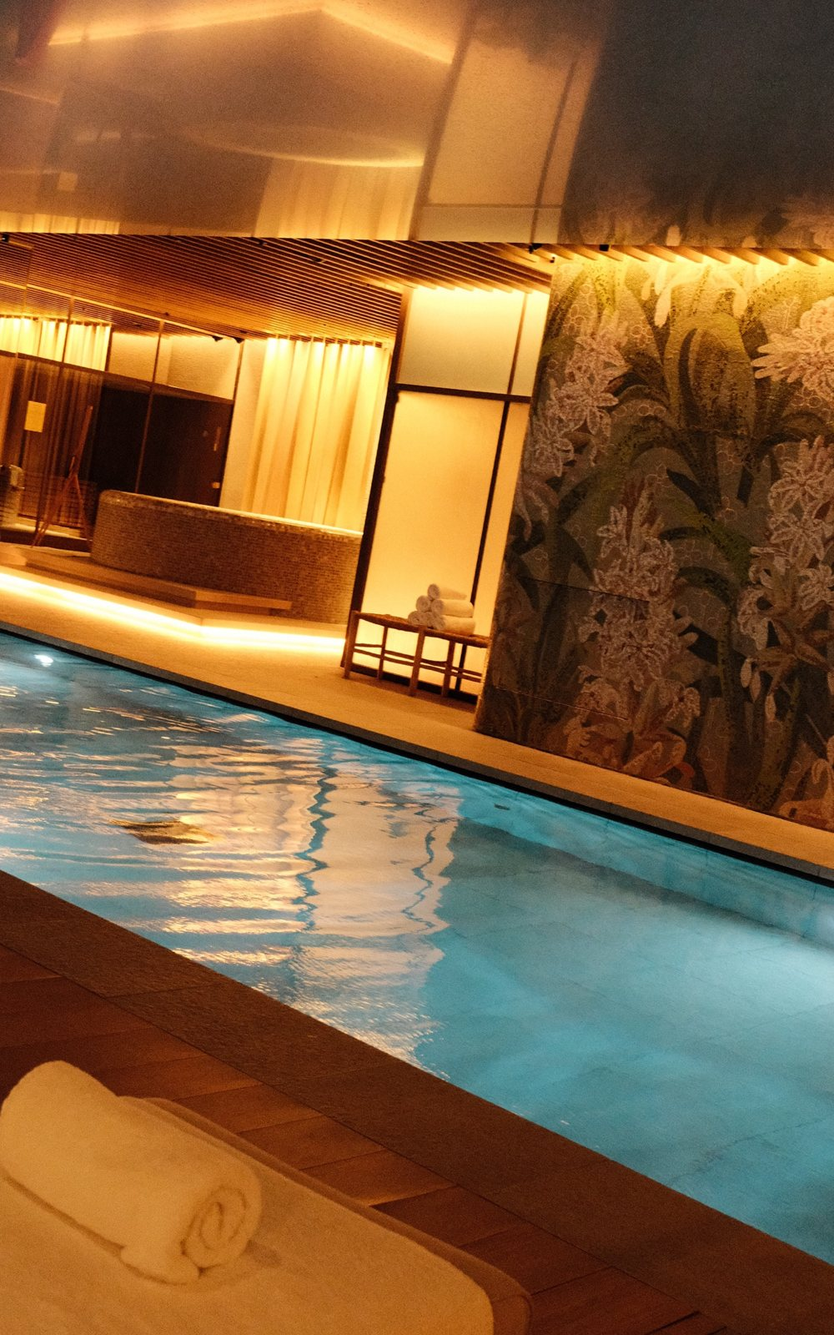
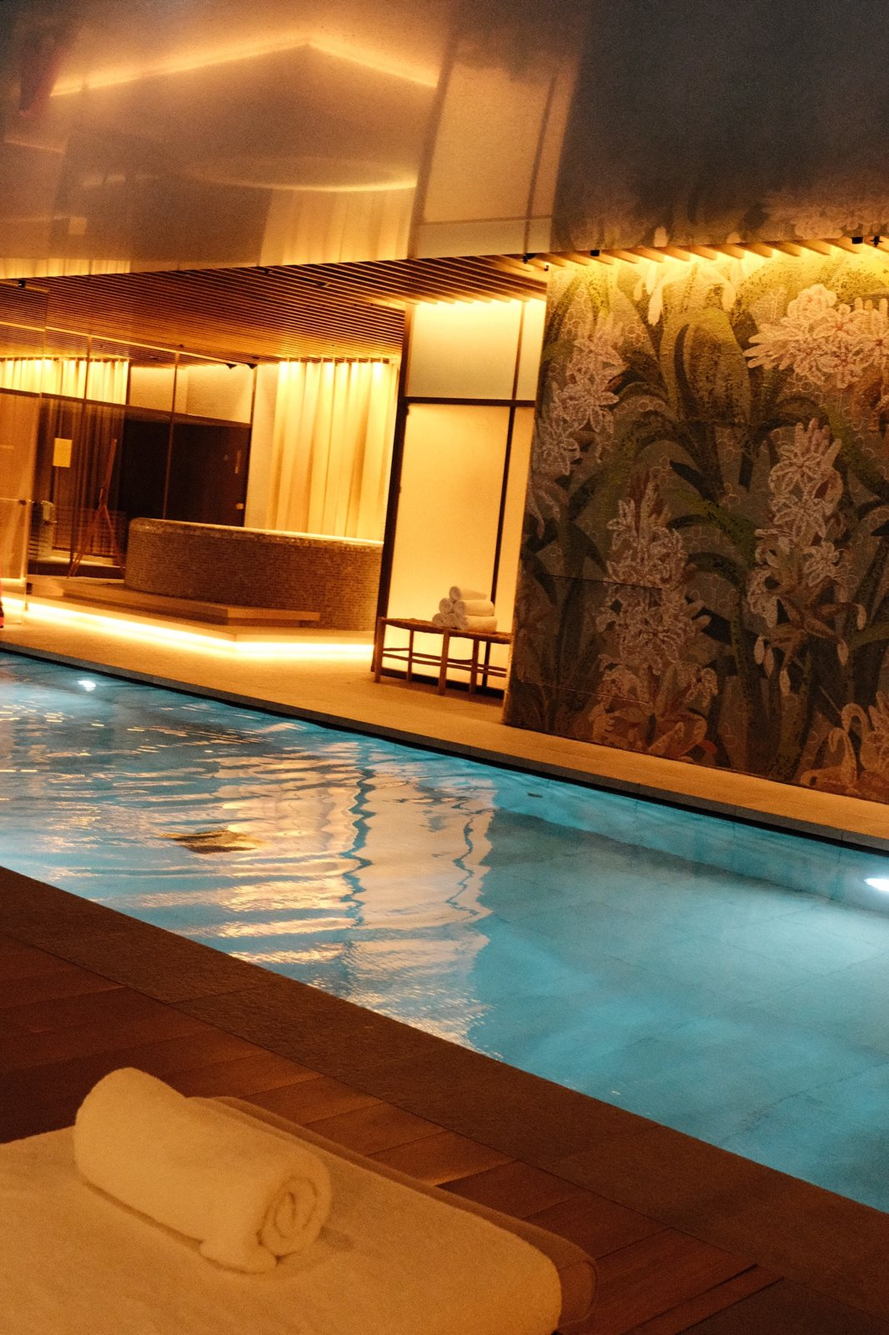
45 Park Lane: restore the spa pool photo as shot (#204)
* London guide: first four hotels from the November site visits

The Cadogan, Rosewood London, Broadwick Soho and The Peninsula London,
with pick-by-trip, Keith's notes, and links to the existing Claridge's,
Connaught, Lanesborough and Raffles OWO reviews.

Claude-Session: https://claude.ai/code/session_01SGtJMUPdUyx2if6hCKMgjq

* London guide: add 45 Park Lane with Keith's suite photos

Claude-Session: https://claude.ai/code/session_01SGtJMUPdUyx2if6hCKMgjq

* London guide: 45 Park Lane gets all eight photos and the 8am/8pm perk

Claude-Session: https://claude.ai/code/session_01SGtJMUPdUyx2if6hCKMgjq

* London guide: add The Emory and The Berkeley from the site visit

Claude-Session: https://claude.ai/code/session_01SGtJMUPdUyx2if6hCKMgjq

* London guide: Keith's photos of The Berkeley

Claude-Session: https://claude.ai/code/session_01SGtJMUPdUyx2if6hCKMgjq

* London guide: Keith's Emory photos, New Year's Eve, Fora Reserve on Emory and Berkeley

Claude-Session: https://claude.ai/code/session_01SGtJMUPdUyx2if6hCKMgjq

* London guide: The Berkeley has 190 rooms and suites

Claude-Session: https://claude.ai/code/session_01SGtJMUPdUyx2if6hCKMgjq

* London guide: Berkeley photos identified as the first-floor balcony and terrace room and the Bar & Terrace

Claude-Session: https://claude.ai/code/session_01SGtJMUPdUyx2if6hCKMgjq

* London guide: Emory marble photo is the lobby lounge

Claude-Session: https://claude.ai/code/session_01SGtJMUPdUyx2if6hCKMgjq
[…]

diff --git a/hotels/45-park-lane-london.html b/hotels/45-park-lane-london.html
@@ -3,4 +3,4 @@
   function gtag(){dataLayer.push(arguments);}
   gtag('js', new Date());
   gtag('config', 'G-0J39101CS2');
-</script><script type="application/ld+json">{"@context":"https://schema.org","@type":"Review","name":"45 Park Lane Review, London: My Stay at the Dorchester Collection (2026)","itemReviewed":{"@type":"Hotel","name":"45 Park Lane","address":{"@type":"PostalAddress","addressLocality":"London","addressCountry":"GB"},"image":"https://suiteswithkeith.com/images/hotels/45-park-lane/exterior-night.jpg"},"author":{"@type":"Person","name":"Keith Pence","url":"https://suiteswithkeith.com/about.html"},"publisher":{"@type":"Organization","name":"Suites With Keith","url":"https://suiteswithkeith.com/"},"datePublished":"2026-11-25","reviewBody":"Dorchester-quality beds and service in a moody, intimate hotel, with 8am check-in and 8pm check-out guaranteed through me.","url":"https://suiteswithkeith.com/hotels/45-park-lane-london.html"}</script><link rel="stylesheet" href="/assets/athens-excursions.BH3h5UD9.css"></head> <body> <nav class="nav" id="nav"> <div class="container"> <a class="wordmark" href="/index.html">Suites With Keith</a> <button class="nav-toggle" id="nav-toggle" aria-expanded="false" aria-controls="nav-links">Menu</button> <div class="nav-links" id="nav-links"> <a href="/services.html">Services</a> <a href="/collections.html" data-gtag-label="collections" data-gtag-location="nav">The Collections</a> <a href="/destination-guides.html" data-gtag-label="destination_guides" data-gtag-location="nav">Destination Guides</a> <a href="/rankings.html" data-gtag-label="keiths_rankings" data-gtag-location="nav">Keith's Rankings</a> <a href="/about.html">About</a> </div> </div> </nav> <header class="hero" style="min-height:min(72svh,680px);">  <img class="hero-img" src="/images/hotels/45-park-lane/exterior-night.jpg" alt="45 Park Lane, London" style="object-position:50% 30%" fetchpriority="high"> <div class="container"> <p class="eyebrow">Hotel review &middot; Stayed November 2026 &middot; London, England</p> <h1 class="display-xl">45 Park Lane <em style="color:inherit">review</em></h1> <p class="stamp" style="margin-top:20px;">8am Check-In, Guaranteed Through Me · 8pm Check-Out, Guaranteed Through Me</p> </div> </header>  <section class="section"> <div class="container"> <div class="verdict reveal"> <p>Dorchester-quality beds and service in a moody, intimate hotel, with 8am check-in and 8pm check-out guaranteed through me.</p> </div> <dl class="kv reveal" style="margin-top:48px;"> <div class="kv-row"><dt>Neighborhood</dt><dd>Park Lane, Mayfair, London</dd></div> <div class="kv-row"><dt>Style</dt><dd>Moody, intimate townhouse (Dorchester Collection)</dd></div> <div class="kv-row"><dt>Perfect for</dt><dd>Couples, design lovers, repeat guests who want to be remembered, travelers who want Dorchester service at a smaller scale</dd></div> <div class="kv-row"><dt>My ranking</dt><dd><a href="/london.html" style="color:var(--brass);">On my London guide</a></dd></div> </dl> </div> </section>  <section class="section"> <div class="container"> <div class="sec-head reveal"> <span class="eyebrow">The review</span> <h2 class="display-l" style="max-width:24ch;">Moody, sexy and small, with Dorchester-quality beds and service and stunning marble bathrooms.</h2> </div> <div class="reveal" style="max-width:62ch;"> <p style="margin-bottom:16px;">Moody, sexy and small, with Dorchester-quality beds and service. The suites are all velvet sofas, soft textured walls and brass, and the marble bathrooms are stunning, with heated floors and Toto toilets.</p><p style="margin-bottom:16px;">It&rsquo;s the kind of hotel where the small things are already handled before you think to ask. There was oat milk and regular milk already in the fridge, so I could have my coffee first thing in the morning without calling down. A small touch, but an incredible one.</p><p style="margin-bottom:16px;">And because it&rsquo;s so small, the personal attention is incredible, almost like <a href="/hotels/portrait-firenze.html">Portrait</a> in Florence and Milan. This is a hotel for someone who likes to come back and know the hotel will remember every little thing about them. That&rsquo;s a great part of this property.</p><p style="margin-bottom:16px;">The one con: from my seventh-floor suite, there wasn&rsquo;t much of a view. Come for the rooms, the beds and the mood.</p> </div> <div class="photos reveal" style="margin-top:44px;">  <figure><img src="/images/hotels/45-park-lane/suite-living-room.jpg" alt="45 Park Lane, London" width="1600" height="1067" loading="lazy" decoding="async"></figure> <figure><img src="/images/hotels/45-park-lane/marble-bathroom.jpg" alt="The marble bathroom with a lit double vanity at 45 Park Lane" width="1600" height="1066" loading="lazy" decoding="async"><figcaption>Stunning marble bathrooms</figcaption></figure><figure><img src="/images/hotels/45-park-lane/bedroom.jpg" alt="The bedroom of a 45 Park Lane suite with a black-and-white portrait above the bed" width="1600" height="1066" loading="lazy" decoding="async"><figcaption>Dorchester-quality beds</figcaption></figure><figure><img src="/images/hotels/45-park-lane/suite-dining.jpg" alt="The dining table under a brass chandelier in a 45 Park Lane suite" width="1600" height="1066" loading="lazy" decoding="async"><figcaption>Dining in the suite</figcaption></figure><figure><img src="/images/hotels/45-park-lane/suite-night.jpg" alt="The living room of a 45 Park Lane suite at night, with the city lit up beyond the windows" width="1600" height="1066" loading="lazy" decoding="async"><figcaption>The suite after dark</figcaption></figure><figure><img src="/images/hotels/45-park-lane/suite-sofas.jpg" alt="Velvet sofas by the windows in a 45 Park Lane suite" width="1066" height="1600" loading="lazy" decoding="async"><figcaption>Velvet and brass</figcaption></figure><figure><img src="/images/hotels/45-park-lane/champagne-corner.jpg" alt="Champagne on ice beside a velvet armchair in a 45 Park Lane suite" width="1066" height="1600" loading="lazy" decoding="async"><figcaption>The welcome</figcaption></figure><figure><img src="/images/hotels/45-park-lane/bed-portrait.jpg" alt="The bed in a 45 Park Lane suite in low lamplight" width="1066" height="1600" loading="lazy" decoding="async"><figcaption>Moody, in the best way</figcaption></figure><figure><img src="/images/hotels/45-park-lane/spa-pool.jpg" alt="The indoor pool beside a floral mosaic wall in the spa shared by 45 Park Lane and The Dorchester" width="1000" height="1600" loading="lazy" decoding="async"><figcaption>The spa pool</figcaption></figure><figure><img src="/images/hotels/45-park-lane/spa-lounge.jpg" alt="The spa relaxation lounge with a hanging swing seat at 45 Park Lane" width="1066" height="1600" loading="lazy" decoding="async"><figcaption>The spa lounge</figcaption></figure><figure><img src="/images/hotels/45-park-lane/spa-fireside.jpg" alt="A curved fireside lounge in the spa at 45 Park Lane" width="1066" height="1600" loading="lazy" decoding="async"><figcaption>Fireside in the spa</figcaption></figure> </div> </div> </section>  <section class="section"> <div class="container"> <div class="sec-head reveal"> <span class="eyebrow">What stood out</span> <h2 class="display-l">The details that made the list</h2> </div> <dl class="kv reveal"> <div class="kv-row"><dt>01</dt><dd><b>8am check-in, 8pm check-out, guaranteed.</b> <span class="body-2">When you book through me. Land on the overnight flight and go straight to bed, or take the evening flight home without losing the day.</span></dd></div><div class="kv-row"><dt>02</dt><dd><b>The marble bathrooms.</b> <span class="body-2">Stunning, with heated floors and Toto toilets.</span></dd></div><div class="kv-row"><dt>03</dt><dd><b>The spa and gym.</b> <span class="body-2">The spa is a major selling point: a pool beside a floral mosaic wall, a hot tub and calm, warm lounges. The gym is super expansive, one of the nicer city-hotel gyms I&rsquo;ve seen. Guests of The Dorchester next door use the same spa.</span></dd></div><div class="kv-row"><dt>04</dt><dd><b>Personal attention, remembered.</b> <span class="body-2">A hotel this size gives incredible personal attention, almost like <a href="/hotels/portrait-firenze.html">Portrait</a> in Florence and Milan. It&rsquo;s a hotel for someone who likes to come back and know it will remember every little thing about them.</span></dd></div><div class="kv-row"><dt>05</dt><dd><b>Dorchester-quality beds and service.</b> <span class="body-2">At a much smaller scale than The Dorchester itself.</span></dd></div><div class="kv-row"><dt>06</dt><dd><b>The little things.</b> <span class="body-2">Oat milk and regular milk already in the fridge. Coffee first thing, without calling down.</span></dd></div> </dl> </div> </section>  <section class="section"> <div class="container"> <div class="sec-head reveal"> <span class="eyebrow">Know before you book</span> <h2 class="display-l">The Fine Print, From Your Advisor</h2> </div> <dl class="kv reveal"> <div class="kv-row"><dt>01</dt><dd><b>Don&rsquo;t book it for the view.</b> <span class="body-2">From my seventh-floor suite there wasn&rsquo;t much to see.</span></dd></div><div class="kv-row"><dt>02</dt><dd><b>Book a suite.</b> <span class="body-2">For the bathroom alone.</span></dd></div><div class="kv-row"><dt>03</dt><dd><b>Compare the rest of London.</b> <span class="body-2">My <a href="/london.html">London guide</a> puts every hotel I&rsquo;ve seen side by side.</span></dd></div> </dl> </div> </section>  <section class="section band on-shadow"> <div class="container" style="max-width:820px; text-align:center;"> <img src="/images/personal/keith-headshot-square.jpg" alt="Keith Pence" width="320" height="320" loading="lazy" decoding="async" class="reveal" style="display:block;width:88px;height:88px;border-radius:50%;object-fit:cover;object-position:50% 30%;margin:0 auto 20px;"><span class="eyebrow reveal" style="display:block; margin-bottom:16px;">Book 45 Park Lane through me</span> <h2 class="display-l reveal">Fora perks.<br>And someone who knows the hotel.</h2> <p class="body-2 reveal" style="margin:22px auto 0; max-width:52ch;">Work with me and you get two things: perks you can&rsquo;t get booking direct, and someone who has stayed here. Book 45 Park Lane through me and an 8am check-in and 8pm check-out are guaranteed. I know the suites and the team, and I&rsquo;m your direct line to them while you&rsquo;re there. Rates are identical to booking direct.</p> <figure class="swk-quote reveal" style="margin:36px auto 0; max-width:52ch; padding-top:26px; border-top:1px solid var(--band-hairline);"><blockquote style="margin:0; font-family:var(--body); font-style:italic; font-size:clamp(1.1rem,2.2vw,1.3rem); line-height:1.5;">&ldquo;Luxury hotels naturally have many guests competing for attention, but having Keith in our corner made us feel like a priority throughout the entire experience.&rdquo;</blockquote><figcaption style="margin-top:12px; font-size:13px; font-weight:400; letter-spacing:.2em; text-transform:uppercase; color:var(--band-ash); font-family: 'Instrument Serif', Didot, Georgia, serif;">Tyler &amp; Spencer C. &middot; SWK Clients</figcaption></figure> </div> </section>  <section class="section inquire" id="inquire"> <div class="container"> <h2 class="display-l reveal">When are you thinking?</h2> <p class="deck reveal" style="margin:18px auto 0; max-width:44ch;">Book through me and your room is ready at 8am and yours until 8pm. Tell me your dates and flights.</p> <form class="inquire-form reveal" action="https://formspree.io/f/mjgnadov" method="POST"> <input type="hidden" name="_subject" value="45 Park Lane Inquiry"> <input type="hidden" name="hotel" value="45 Park Lane, London"> <input type="hidden" name="page" value="hotels/45-park-lane-london"> <input type="text" name="_gotcha" style="display:none" tabindex="-1" autocomplete="off"> <div class="step1"> <label for="q-when">When are you thinking?</label> <input id="q-when" type="text" name="travel_dates" placeholder="Late June, 5 nights" required autocomplete="off"> </div> <div class="step2"> <label for="q-name">And where do I send the recommendation?</label> <input id="q-name" type="text" name="name" placeholder="Name" required autocomplete="name"> <input id="q-email" type="email" name="email" placeholder="Email" required autocomplete="email"> <label for="q-details" style="margin-top:2px;">Anything else? Nights, budget, occasion (optional)</label> <input id="q-details" type="text" name="details" placeholder="7 nights · around $1,500/night · anniversary" autocomplete="off"> </div> <button type="submit" class="btn" data-gtag-label="hotel_inquiry_send" data-gtag-location="hotel_cta">Send</button> <p class="note">Traveling within the next 30 days? You&rsquo;ll hear from me today.</p> <p class="status" role="status" aria-live="polite"></p> </form> <p class="reveal" style="margin-top:34px;"> <a href="/london.html" style="font-size:13px; font-weight:400; letter-spacing:.2em; text-transform:uppercase; color:var(--brass); text-decoration:none; margin-right:22px; display:inline-block; margin-bottom:8px; font-family: 'Instrument Serif', Didot, Georgia, serif;">My London Guide&nbsp;&rarr;</a> <a href="/rankings.html" style="font-size:13px; font-weight:400; letter-spacing:.2em; text-transform:uppercase; color:var(--brass); text-decoration:none; display:inline-block; margin-bottom:8px; font-family: 'Instrument Serif', Didot, Georgia, serif;">All My Rankings&nbsp;&rarr;</a> </p> </div> </section>  <footer class="site"> <div class="container foot-grid"> <div> <a class="wordmark" href="/index.html">Suites With Keith</a> <p style="margin-top:14px;" class="read">Better rooms. Better trips. Hotel recommendations from someone who has stood in the rooms. Booking is complimentary, and the judgment comes with it.</p><p class="fora-cred" style="display:flex;align-items:center;gap:10px;margin-top:22px;font-family:'Instrument Serif', Didot, Georgia, serif;font-size:13px;font-weight:400;letter-spacing:.2em;text-transform:uppercase;color:var(--ash);">A <span role="img" aria-label="Fora X" style="display:inline-block;width:66px;height:15px;color:var(--ink);background:currentColor;-webkit-mask:url(/images/logos/partners/fora-x.svg) center/contain no-repeat;mask:url(/images/logos/partners/fora-x.svg) center/contain no-repeat;"></span> advisor</p> </div> <div> <p class="col-h">Get in touch</p> <div class="links"> <a href="mailto:keith.pence@fora.travel">keith.pence@fora.travel</a> <a href="https://instagram.com/suiteswithkeith" rel="noopener">@suiteswithkeith</a> </div> </div> <div> <p class="col-h">Explore</p> <div class="links"> <a href="/collections.html">The Collections</a> <a href="/destination-guides.html">Destination Guides</a> <a href="/rankings.html">Keith&rsquo;s Rankings</a> <a href="/privacy.html">Privacy Policy</a> </div> </div> </div> <div class="container" style="margin-top:56px; padding-top:36px; border-top:1px solid var(--hairline);"> <p class="col-h">Get first access to future issues</p> <div class="beehiiv-wrap" id="subscribe"> <script async src="https://subscribe-forms.beehiiv.com/v3/loader.js" data-beehiiv-form="f7386044-3940-49ca-ab13-051728385b6d"></script> <p style="margin-top:10px;"><a href="/subscriber-welcome.html" style="font-size:.85rem;">Just subscribed? Continue to your welcome page &rarr;</a></p> </div> </div> </footer> <a href="#inquire" class="btn sticky-cta" data-gtag-label="start_planning" data-gtag-location="sticky_mobile">Book 45 Park Lane</a> <script type="module">const a=document.getElementById("nav-toggle"),l=document.getElementById("nav");a?.addEventListener("click",()=>{const e=l.classList.toggle("open");a.setAttribute("aria-expanded",String(e))});const i=new IntersectionObserver(e=>{e.forEach(n=>{n.isIntersecting&&(n.target.classList.add("on"),i.unobserve(n.target))})},{threshold:.15});document.querySelectorAll(".reveal").forEach((e,n)=>{e.style.transitionDelay=Math.min(n%5,4)*90+"ms",i.observe(e)});const t=document.querySelector(".inquire-form");if(t){const e=t.querySelector(".step2"),n=t.querySelector('input[name="travel_dates"]'),r=t.querySelector(".status"),s=t.querySelector('button[type="submit"]'),o=()=>{e&&e.hidden&&(e.hidden=!1)};e&&n&&(e.hidden=!0,n.addEventListener("focus",o),n.addEventListener("input",o),t.addEventListener("invalid",o,!0)),t.addEventListener("submit",d=>{d.preventDefault(),s.disabled=!0,r.textContent="",fetch(t.action,{method:"POST",body:new FormData(t),headers:{Accept:"application/json"}}).then(c=>{if(!c.ok)throw new Error;t.reset(),t.classList.add("done"),r.textContent="Got it. You’ll hear back from me personally."}).catch(()=>{r.textContent="That didn’t send. Email me directly at keith.pence@fora.travel."}).then(()=>{s.disabled=!1})})}</script> <script defer src="/js/swk-events.js"></script> <script defer src="/js/swk-sticky.js"></script> <script defer src="/js/swk-book.js"></script> <script defer src="/js/swk-newsletter-prompt.js"></script> </body> </html>
+</script><script type="application/ld+json">{"@context":"https://schema.org","@type":"Review","name":"45 Park Lane Review, London: My Stay at the Dorchester Collection (2026)","itemReviewed":{"@type":"Hotel","name":"45 Park Lane","address":{"@type":"PostalAddress","addressLocality":"London","addressCountry":"GB"},"image":"https://suiteswithkeith.com/images/hotels/45-park-lane/exterior-night.jpg"},"author":{"@type":"Person","name":"Keith Pence","url":"https://suiteswithkeith.com/about.html"},"publisher":{"@type":"Organization","name":"Suites With Keith","url":"https://suiteswithkeith.com/"},"datePublished":"2026-11-25","reviewBody":"Dorchester-quality beds and service in a moody, intimate hotel, with 8am check-in and 8pm check-out guaranteed through me.","url":"https://suiteswithkeith.com/hotels/45-park-lane-london.html"}</script><link rel="stylesheet" href="/assets/athens-excursions.BH3h5UD9.css"></head> <body> <nav class="nav" id="nav"> <div class="container"> <a class="wordmark" href="/index.html">Suites With Keith</a> <button class="nav-toggle" id="nav-toggle" aria-expanded="false" aria-controls="nav-links">Menu</button> <div class="nav-links" id="nav-links"> <a href="/services.html">Services</a> <a href="/collections.html" data-gtag-label="collections" data-gtag-location="nav">The Collections</a> <a href="/destination-guides.html" data-gtag-label="destination_guides" data-gtag-location="nav">Destination Guides</a> <a href="/rankings.html" data-gtag-label="keiths_rankings" data-gtag-location="nav">Keith's Rankings</a> <a href="/about.html">About</a> </div> </div> </nav> <header class="hero" style="min-height:min(72svh,680px);">  <img class="hero-img" src="/images/hotels/45-park-lane/exterior-night.jpg" alt="45 Park Lane, London" style="object-position:50% 30%" fetchpriority="high"> <div class="container"> <p class="eyebrow">Hotel review &middot; Stayed November 2026 &middot; London, England</p> <h1 class="display-xl">45 Park Lane <em style="color:inherit">review</em></h1> <p class="stamp" style="margin-top:20px;">8am Check-In, Guaranteed Through Me · 8pm Check-Out, Guaranteed Through Me</p> </div> </header>  <section class="section"> <div class="container"> <div class="verdict reveal"> <p>Dorchester-quality beds and service in a moody, intimate hotel, with 8am check-in and 8pm check-out guaranteed through me.</p> </div> <dl class="kv reveal" style="margin-top:48px;"> <div class="kv-row"><dt>Neighborhood</dt><dd>Park Lane, Mayfair, London</dd></div> <div class="kv-row"><dt>Style</dt><dd>Moody, intimate townhouse (Dorchester Collection)</dd></div> <div class="kv-row"><dt>Perfect for</dt><dd>Couples, design lovers, repeat guests who want to be remembered, travelers who want Dorchester service at a smaller scale</dd></div> <div class="kv-row"><dt>My ranking</dt><dd><a href="/london.html" style="color:var(--brass);">On my London guide</a></dd></div> </dl> </div> </section>  <section class="section"> <div class="container"> <div class="sec-head reveal"> <span class="eyebrow">The review</span> <h2 class="display-l" style="max-width:24ch;">Moody, sexy and small, with Dorchester-quality beds and service and stunning marble bathrooms.</h2> </div> <div class="reveal" style="max-width:62ch;"> <p style="margin-bottom:16px;">Moody, sexy and small, with Dorchester-quality beds and service. The suites are all velvet sofas, soft textured walls and brass, and the marble bathrooms are stunning, with heated floors and Toto toilets.</p><p style="margin-bottom:16px;">It&rsquo;s the kind of hotel where the small things are already handled before you think to ask. There was oat milk and regular milk already in the fridge, so I could have my coffee first thing in the morning without calling down. A small touch, but an incredible one.</p><p style="margin-bottom:16px;">And because it&rsquo;s so small, the personal attention is incredible, almost like <a href="/hotels/portrait-firenze.html">Portrait</a> in Florence and Milan. This is a hotel for someone who likes to come back and know the hotel will remember every little thing about them. That&rsquo;s a great part of this property.</p><p style="margin-bottom:16px;">The one con: from my seventh-floor suite, there wasn&rsquo;t much of a view. Come for the rooms, the beds and the mood.</p> </div> <div class="photos reveal" style="margin-top:44px;">  <figure><img src="/images/hotels/45-park-lane/suite-living-room.jpg" alt="45 Park Lane, London" width="1600" height="1067" loading="lazy" decoding="async"></figure> <figure><img src="/images/hotels/45-park-lane/marble-bathroom.jpg" alt="The marble bathroom with a lit double vanity at 45 Park Lane" width="1600" height="1066" loading="lazy" decoding="async"><figcaption>Stunning marble bathrooms</figcaption></figure><figure><img src="/images/hotels/45-park-lane/bedroom.jpg" alt="The bedroom of a 45 Park Lane suite with a black-and-white portrait above the bed" width="1600" height="1066" loading="lazy" decoding="async"><figcaption>Dorchester-quality beds</figcaption></figure><figure><img src="/images/hotels/45-park-lane/suite-dining.jpg" alt="The dining table under a brass chandelier in a 45 Park Lane suite" width="1600" height="1066" loading="lazy" decoding="async"><figcaption>Dining in the suite</figcaption></figure><figure><img src="/images/hotels/45-park-lane/suite-night.jpg" alt="The living room of a 45 Park Lane suite at night, with the city lit up beyond the windows" width="1600" height="1066" loading="lazy" decoding="async"><figcaption>The suite after dark</figcaption></figure><figure><img src="/images/hotels/45-park-lane/suite-sofas.jpg" alt="Velvet sofas by the windows in a 45 Park Lane suite" width="1066" height="1600" loading="lazy" decoding="async"><figcaption>Velvet and brass</figcaption></figure><figure><img src="/images/hotels/45-park-lane/champagne-corner.jpg" alt="Champagne on ice beside a velvet armchair in a 45 Park Lane suite" width="1066" height="1600" loading="lazy" decoding="async"><figcaption>The welcome</figcaption></figure><figure><img src="/images/hotels/45-park-lane/bed-portrait.jpg" alt="The bed in a 45 Park Lane suite in low lamplight" width="1066" height="1600" loading="lazy" decoding="async"><figcaption>Moody, in the best way</figcaption></figure><figure><img src="/images/hotels/45-park-lane/spa-pool.jpg" alt="The indoor pool beside a floral mosaic wall in the spa shared by 45 Park Lane and The Dorchester" width="1066" height="1600" loading="lazy" decoding="async"><figcaption>The spa pool</figcaption></figure><figure><img src="/images/hotels/45-park-lane/spa-lounge.jpg" alt="The spa relaxation lounge with a hanging swing seat at 45 Park Lane" width="1066" height="1600" loading="lazy" decoding="async"><figcaption>The spa lounge</figcaption></figure><figure><img src="/images/hotels/45-park-lane/spa-fireside.jpg" alt="A curved fireside lounge in the spa at 45 Park Lane" width="1066" height="1600" loading="lazy" decoding="async"><figcaption>Fireside in the spa</figcaption></figure> </div> </div> </section>  <section class="section"> <div class="container"> <div class="sec-head reveal"> <span class="eyebrow">What stood out</span> <h2 class="display-l">The details that made the list</h2> </div> <dl class="kv reveal"> <div class="kv-row"><dt>01</dt><dd><b>8am check-in, 8pm check-out, guaranteed.</b> <span class="body-2">When you book through me. Land on the overnight flight and go straight to bed, or take the evening flight home without losing the day.</span></dd></div><div class="kv-row"><dt>02</dt><dd><b>The marble bathrooms.</b> <span class="body-2">Stunning, with heated floors and Toto toilets.</span></dd></div><div class="kv-row"><dt>03</dt><dd><b>The spa and gym.</b> <span class="body-2">The spa is a major selling point: a pool beside a floral mosaic wall, a hot tub and calm, warm lounges. The gym is super expansive, one of the nicer city-hotel gyms I&rsquo;ve seen. Guests of The Dorchester next door use the same spa.</span></dd></div><div class="kv-row"><dt>04</dt><dd><b>Personal attention, remembered.</b> <span class="body-2">A hotel this size gives incredible personal attention, almost like <a href="/hotels/portrait-firenze.html">Portrait</a> in Florence and Milan. It&rsquo;s a hotel for someone who likes to come back and know it will remember every little thing about them.</span></dd></div><div class="kv-row"><dt>05</dt><dd><b>Dorchester-quality beds and service.</b> <span class="body-2">At a much smaller scale than The Dorchester itself.</span></dd></div><div class="kv-row"><dt>06</dt><dd><b>The little things.</b> <span class="body-2">Oat milk and regular milk already in the fridge. Coffee first thing, without calling down.</span></dd></div> </dl> </div> </section>  <section class="section"> <div class="container"> <div class="sec-head reveal"> <span class="eyebrow">Know before you book</span> <h2 class="display-l">The Fine Print, From Your Advisor</h2> </div> <dl class="kv reveal"> <div class="kv-row"><dt>01</dt><dd><b>Don&rsquo;t book it for the view.</b> <span class="body-2">From my seventh-floor suite there wasn&rsquo;t much to see.</span></dd></div><div class="kv-row"><dt>02</dt><dd><b>Book a suite.</b> <span class="body-2">For the bathroom alone.</span></dd></div><div class="kv-row"><dt>03</dt><dd><b>Compare the rest of London.</b> <span class="body-2">My <a href="/london.html">London guide</a> puts every hotel I&rsquo;ve seen side by side.</span></dd></div> </dl> </div> </section>  <section class="section band on-shadow"> <div class="container" style="max-width:820px; text-align:center;"> <img src="/images/personal/keith-headshot-square.jpg" alt="Keith Pence" width="320" height="320" loading="lazy" decoding="async" class="reveal" style="display:block;width:88px;height:88px;border-radius:50%;object-fit:cover;object-position:50% 30%;margin:0 auto 20px;"><span class="eyebrow reveal" style="display:block; margin-bottom:16px;">Book 45 Park Lane through me</span> <h2 class="display-l reveal">Fora perks.<br>And someone who knows the hotel.</h2> <p class="body-2 reveal" style="margin:22px auto 0; max-width:52ch;">Work with me and you get two things: perks you can&rsquo;t get booking direct, and someone who has stayed here. Book 45 Park Lane through me and an 8am check-in and 8pm check-out are guaranteed. I know the suites and the team, and I&rsquo;m your direct line to them while you&rsquo;re there. Rates are identical to booking direct.</p> <figure class="swk-quote reveal" style="margin:36px auto 0; max-width:52ch; padding-top:26px; border-top:1px solid var(--band-hairline);"><blockquote style="margin:0; font-family:var(--body); font-style:italic; font-size:clamp(1.1rem,2.2vw,1.3rem); line-height:1.5;">&ldquo;Luxury hotels naturally have many guests competing for attention, but having Keith in our corner made us feel like a priority throughout the entire experience.&rdquo;</blockquote><figcaption style="margin-top:12px; font-size:13px; font-weight:400; letter-spacing:.2em; text-transform:uppercase; color:var(--band-ash); font-family: 'Instrument Serif', Didot, Georgia, serif;">Tyler &amp; Spencer C. &middot; SWK Clients</figcaption></figure> </div> </section>  <section class="section inquire" id="inquire"> <div class="container"> <h2 class="display-l reveal">When are you thinking?</h2> <p class="deck reveal" style="margin:18px auto 0; max-width:44ch;">Book through me and your room is ready at 8am and yours until 8pm. Tell me your dates and flights.</p> <form class="inquire-form reveal" action="https://formspree.io/f/mjgnadov" method="POST"> <input type="hidden" name="_subject" value="45 Park Lane Inquiry"> <input type="hidden" name="hotel" value="45 Park Lane, London"> <input type="hidden" name="page" value="hotels/45-park-lane-london"> <input type="text" name="_gotcha" style="display:none" tabindex="-1" autocomplete="off"> <div class="step1"> <label for="q-when">When are you thinking?</label> <input id="q-when" type="text" name="travel_dates" placeholder="Late June, 5 nights" required autocomplete="off"> </div> <div class="step2"> <label for="q-name">And where do I send the recommendation?</label> <input id="q-name" type="text" name="name" placeholder="Name" required autocomplete="name"> <input id="q-email" type="email" name="email" placeholder="Email" required autocomplete="email"> <label for="q-details" style="margin-top:2px;">Anything else? Nights, budget, occasion (optional)</label> <input id="q-details" type="text" name="details" placeholder="7 nights · around $1,500/night · anniversary" autocomplete="off"> </div> <button type="submit" class="btn" data-gtag-label="hotel_inquiry_send" data-gtag-location="hotel_cta">Send</button> <p class="note">Traveling within the next 30 days? You&rsquo;ll hear from me today.</p> <p class="status" role="status" aria-live="polite"></p> </form> <p class="reveal" style="margin-top:34px;"> <a href="/london.html" style="font-size:13px; font-weight:400; letter-spacing:.2em; text-transform:uppercase; color:var(--brass); text-decoration:none; margin-right:22px; display:inline-block; margin-bottom:8px; font-family: 'Instrument Serif', Didot, Georgia, serif;">My London Guide&nbsp;&rarr;</a> <a href="/rankings.html" style="font-size:13px; font-weight:400; letter-spacing:.2em; text-transform:uppercase; color:var(--brass); text-decoration:none; display:inline-block; margin-bottom:8px; font-family: 'Instrument Serif', Didot, Georgia, serif;">All My Rankings&nbsp;&rarr;</a> </p> </div> </section>  <footer class="site"> <div class="container foot-grid"> <div> <a class="wordmark" href="/index.html">Suites With Keith</a> <p style="margin-top:14px;" class="read">Better rooms. Better trips. Hotel recommendations from someone who has stood in the rooms. Booking is complimentary, and the judgment comes with it.</p><p class="fora-cred" style="display:flex;align-items:center;gap:10px;margin-top:22px;font-family:'Instrument Serif', Didot, Georgia, serif;font-size:13px;font-weight:400;letter-spacing:.2em;text-transform:uppercase;color:var(--ash);">A <span role="img" aria-label="Fora X" style="display:inline-block;width:66px;height:15px;color:var(--ink);background:currentColor;-webkit-mask:url(/images/logos/partners/fora-x.svg) center/contain no-repeat;mask:url(/images/logos/partners/fora-x.svg) center/contain no-repeat;"></span> advisor</p> </div> <div> <p class="col-h">Get in touch</p> <div class="links"> <a href="mailto:keith.pence@fora.travel">keith.pence@fora.travel</a> <a href="https://instagram.com/suiteswithkeith" rel="noopener">@suiteswithkeith</a> </div> </div> <div> <p class="col-h">Explore</p> <div class="links"> <a href="/collections.html">The Collections</a> <a href="/destination-guides.html">Destination Guides</a> <a href="/rankings.html">Keith&rsquo;s Rankings</a> <a href="/privacy.html">Privacy Policy</a> </div> </div> </div> <div class="container" style="margin-top:56px; padding-top:36px; border-top:1px solid var(--hairline);"> <p class="col-h">Get first access to future issues</p> <div class="beehiiv-wrap" id="subscribe"> <script async src="https://subscribe-forms.beehiiv.com/v3/loader.js" data-beehiiv-form="f7386044-3940-49ca-ab13-051728385b6d"></script> <p style="margin-top:10px;"><a href="/subscriber-welcome.html" style="font-size:.85rem;">Just subscribed? Continue to your welcome page &rarr;</a></p> </div> </div> </footer> <a href="#inquire" class="btn sticky-cta" data-gtag-label="start_planning" data-gtag-location="sticky_mobile">Book 45 Park Lane</a> <script type="module">const a=document.getElementById("nav-toggle"),l=document.getElementById("nav");a?.addEventListener("click",()=>{const e=l.classList.toggle("open");a.setAttribute("aria-expanded",String(e))});const i=new IntersectionObserver(e=>{e.forEach(n=>{n.isIntersecting&&(n.target.classList.add("on"),i.unobserve(n.target))})},{threshold:.15});document.querySelectorAll(".reveal").forEach((e,n)=>{e.style.transitionDelay=Math.min(n%5,4)*90+"ms",i.observe(e)});const t=document.querySelector(".inquire-form");if(t){const e=t.querySelector(".step2"),n=t.querySelector('input[name="travel_dates"]'),r=t.querySelector(".status"),s=t.querySelector('button[type="submit"]'),o=()=>{e&&e.hidden&&(e.hidden=!1)};e&&n&&(e.hidden=!0,n.addEventListener("focus",o),n.addEventListener("input",o),t.addEventListener("invalid",o,!0)),t.addEventListener("submit",d=>{d.preventDefault(),s.disabled=!0,r.textContent="",fetch(t.action,{method:"POST",body:new FormData(t),headers:{Accept:"application/json"}}).then(c=>{if(!c.ok)throw new Error;t.reset(),t.classList.add("done"),r.textContent="Got it. You’ll hear back from me personally."}).catch(()=>{r.textContent="That didn’t send. Email me directly at keith.pence@fora.travel."}).then(()=>{s.disabled=!1})})}</script> <script defer src="/js/swk-events.js"></script> <script defer src="/js/swk-sticky.js"></script> <script defer src="/js/swk-book.js"></script> <script defer src="/js/swk-newsletter-prompt.js"></script> </body> </html>
